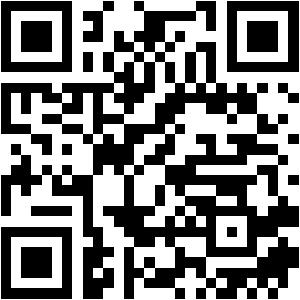
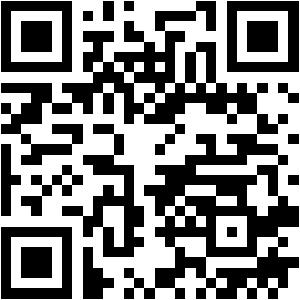
Update DC Character of the Day

diff --git a/README.md b/README.md
@@ -4,16 +4,16 @@
 <img src="https://upload.wikimedia.org/wikipedia/commons/3/3d/DC_Comics_logo.svg" alt="DC Logo" width="350" height="auto">
 </p>
 
-## Hyena (Shi)
+## Ermey
 <p align="center">
-<img src="https://comicvine.gamespot.com/a/uploads/scale_medium/1/15776/8919511-hyena-shi08.jpg" width="600" height="auto"/>
+<img src="https://comicvine.gamespot.com/a/uploads/scale_medium/0/9241/1216452-001.jpg" width="600" height="auto"/>
 </p>
 
-Jivan Shi was angered at losing his status as a doctor because his medical degree from India was not recognized in the United States. Jivan Shi now as a therapist manipulated Summer Day into becoming the Hyena again and to infect him with the "curse" so that he could gain revenge on the medical community.
+Ermey was a drill instructor with the Green Lantern Corps and trained such notable Lanterns like Kilowog and Tomar Re. Ermey was particularly difficult on Kilowog, intentionally mispronouncing his name and chastising him for calling his pregnant wife during basic training. Ermey was fond of training his cadets on a unique planet which was split into four very distinct climates and terrain. There the ring less cadets faced many trials such as climbing hand over hand over a pit of lava, trekking through a desert filled with sinkholes, enduring freezing waters, and fighting a massive squid under the sea.
 
-**First Appearance:** The Fury of Firestorm #10 (3/31/1983)
+**First Appearance:** Blackest Night: Tales of the Corps #3 (9/1/2009)
 
-[Character Details](https://comicvine.gamespot.com/hyena-shi/4005-182899/)
+[Character Details](https://comicvine.gamespot.com/ermey/4005-64044/)
 
 <h2>What is this repository?</h2>
 DC Character of the Day is a PowerShell-based application hosted in GitHub that provides information about a different DC character each day. The repository picks a random character daily @ 5am UTC.
